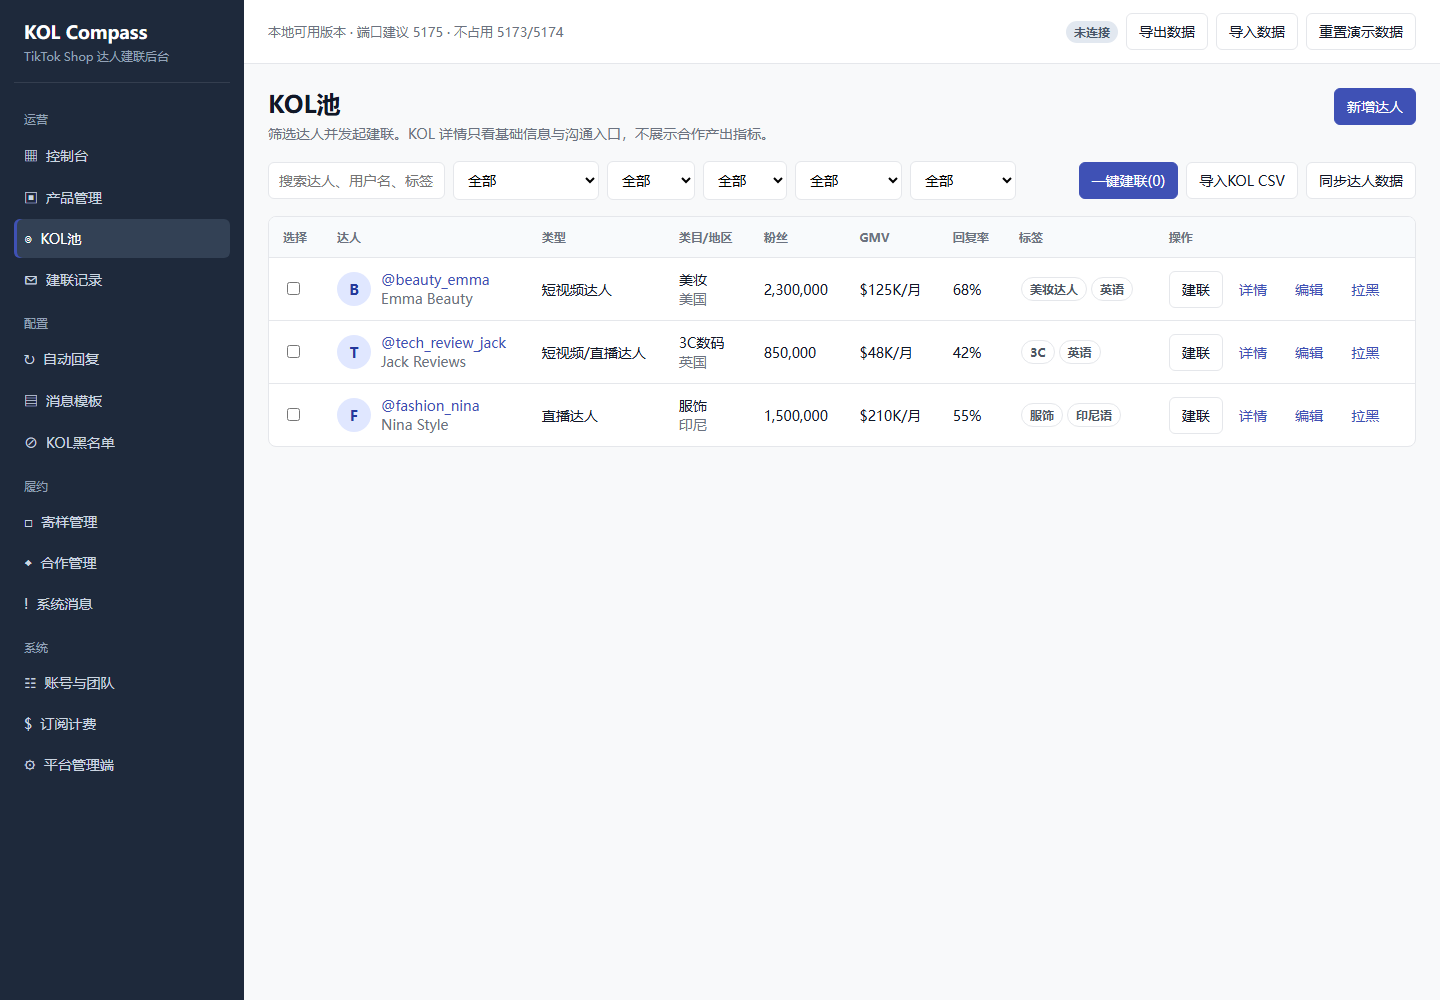
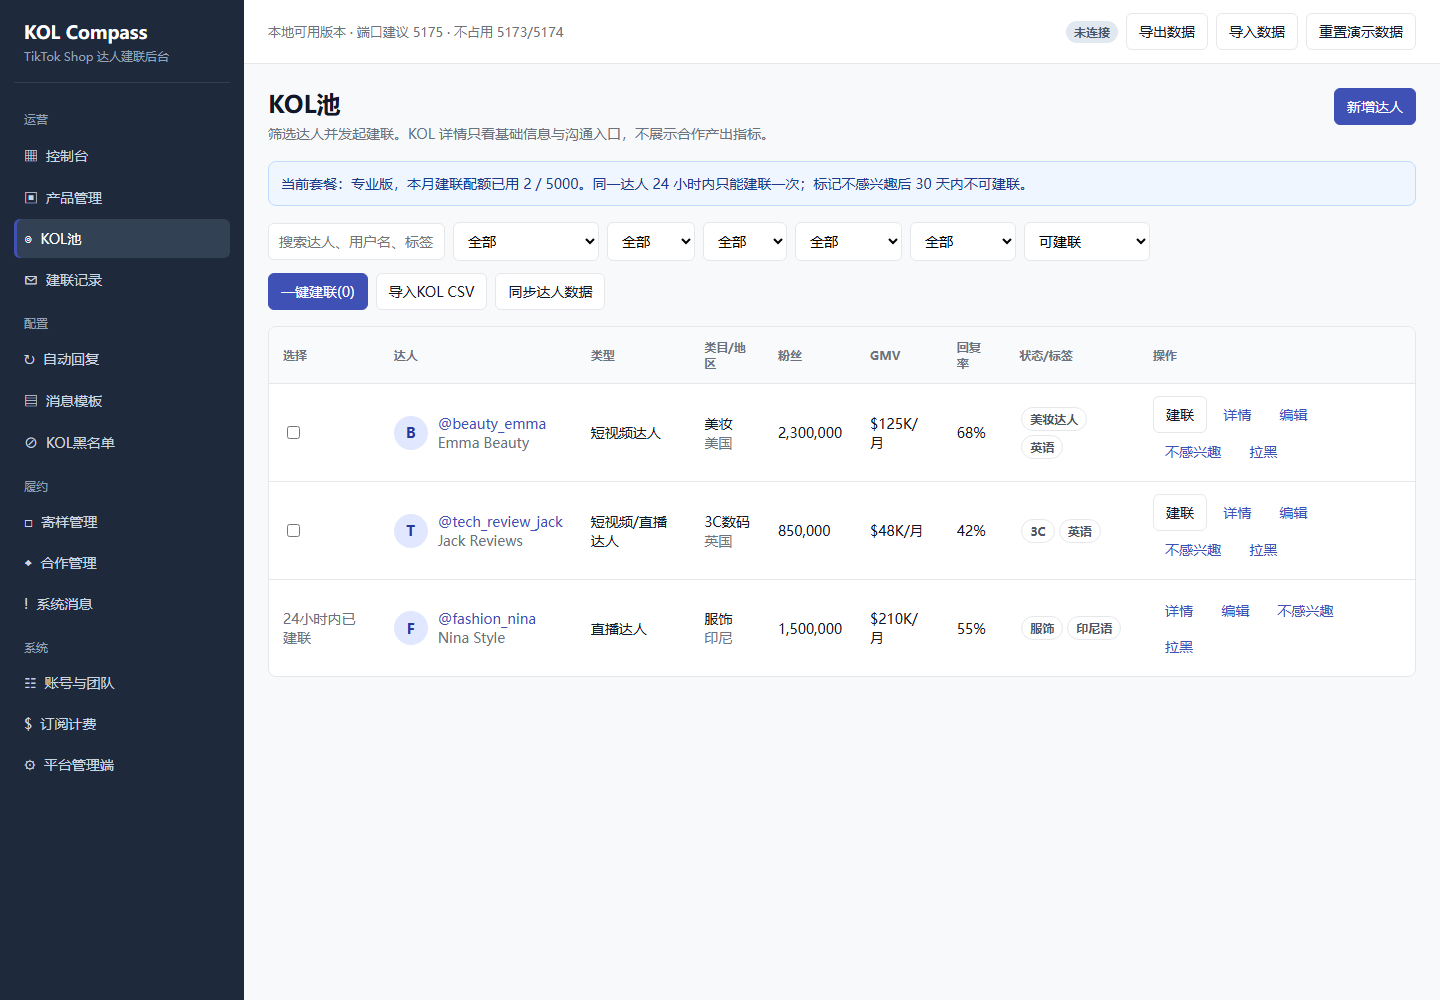
Enforce outreach safety rules

diff --git a/app.js b/app.js
@@ -27,6 +27,7 @@ const pages = [
 const pageKeys = new Set(pages.flatMap(([, items]) => items.map(([key]) => key)));
 const fixedTags = ["高ROI", "可复投", "需催发", "内容优质", "低效合作"];
 const outputStatuses = ["全部", "待产出", "已发视频", "已直播", "视频+直播", "逾期未产出", "有订单未匹配内容", "合作结束"];
+const planQuotas = { "免费版": 100, "基础版": 1000, "专业版": 5000, "企业版": Infinity };
 
 const seed = {
   page: "dashboard",
@@ -43,6 +44,7 @@ const seed = {
     kolRegion: "全部",
     kolFollowers: "全部",
     kolReplyRate: "全部",
+    kolInterest: "可建联",
     outreachSearch: "",
     outreachStatus: "全部",
     outreachChannel: "全部",
@@ -60,6 +62,7 @@ const seed = {
     tiktokRedirectUrl: "http://localhost:8015/api/tiktok/callback",
     tiktokScopes: "product,affiliate,messaging,order",
     tiktokLastAuthCheck: "尚未检查",
+    planName: "专业版",
     featureSwitches: {
       tiktokMessaging: true,
       emailMessaging: true,
@@ -244,6 +247,65 @@ function money(v) {
 
 function pct(v) {
   return Number.isFinite(v) ? `${v.toFixed(1)}%` : "-";
+}
+
+function todayString() {
+  return new Date().toISOString().slice(0, 10);
+}
+
+function monthKey(value = new Date()) {
+  const parsed = new Date(value);
+  if (Number.isNaN(parsed.getTime())) return new Date().toISOString().slice(0, 7);
+  return parsed.toISOString().slice(0, 7);
+}
+
+function outreachQuota() {
+  return planQuotas[state.settings.planName] ?? planQuotas["专业版"];
+}
+
+function monthlyOutreachUsed() {
+  const current = monthKey();
+  return state.outreach.filter((x) => monthKey(x.updatedAt || new Date()) === current && x.status !== "发送失败").length;
+}
+
+function quotaRemaining() {
+  const quota = outreachQuota();
+  if (!Number.isFinite(quota)) return Infinity;
+  return Math.max(0, quota - monthlyOutreachUsed());
+}
+
+function quotaLabel() {
+  const quota = outreachQuota();
+  return Number.isFinite(quota) ? `${monthlyOutreachUsed()} / ${quota}` : `${monthlyOutreachUsed()} / 不限`;
+}
+
+function lastOutreachForCreator(creatorId) {
+  return state.outreach
+    .filter((x) => x.creatorId === creatorId)
+    .sort((a, b) => new Date(b.updatedAt) - new Date(a.updatedAt))[0];
+}
+
+function hoursSince(value) {
+  const time = new Date(value).getTime();
+  if (!Number.isFinite(time)) return Infinity;
+  return (Date.now() - time) / 36e5;
+}
+
+function isNotInterestedBlocked(c) {
+  return c?.status === "不感兴趣" && (!c.notInterestedUntil || c.notInterestedUntil >= todayString());
+}
+
+function isOutreachCoolingDown(c) {
+  const last = lastOutreachForCreator(c?.id);
+  return last && hoursSince(last.updatedAt) < 24 && last.status !== "已关闭";
+}
+
+function creatorOutreachBlockReason(c) {
+  if (!c) return "达人不存在";
+  if (c.status === "黑名单") return "黑名单";
+  if (isNotInterestedBlocked(c)) return `不感兴趣至 ${c.notInterestedUntil}`;
+  if (isOutreachCoolingDown(c)) return "24小时内已建联";
+  return "";
 }
 
 function creatorFollowerTierOk(followers, tier) {
@@ -469,10 +531,12 @@ function renderKolPool() {
     const followersOk = creatorFollowerTierOk(c.followers, state.filters.kolFollowers);
     const replyRateOk = creatorReplyRateOk(c.replyRate, state.filters.kolReplyRate);
     const kwOk = !kw || [c.username, c.nickname, c.category, c.region, c.tags.join(",")].join(" ").toLowerCase().includes(kw);
-    return typeOk && categoryOk && regionOk && followersOk && replyRateOk && kwOk && c.status !== "黑名单";
+    const interestOk = state.filters.kolInterest === "显示不感兴趣" ? c.status !== "黑名单" : c.status !== "黑名单" && !isNotInterestedBlocked(c);
+    return typeOk && categoryOk && regionOk && followersOk && replyRateOk && kwOk && interestOk;
   });
   return `
     ${pageHead("KOL池", "筛选达人并发起建联。KOL 详情只看基础信息与沟通入口，不展示合作产出指标。", `<button class="btn primary" onclick="openCreatorModal()">新增达人</button>`)}
+    <div class="notice" style="margin-bottom:12px">当前套餐：${escapeHtml(state.settings.planName)}，本月建联配额已用 ${quotaLabel()}。同一达人 24 小时内只能建联一次；标记不感兴趣后 30 天内不可建联。</div>
     <div class="toolbar">
       <div class="filters">
         <input class="input" placeholder="搜索达人、用户名、标签..." value="${escapeHtml(state.filters.kolSearch)}" oninput="setFilter('kolSearch', this.value)" />
@@ -491,6 +555,9 @@ function renderKolPool() {
         <select class="select" onchange="setFilter('kolReplyRate', this.value)">
           ${["全部", ">=60%", "40%-60%", "<40%"].map((x) => `<option ${state.filters.kolReplyRate === x ? "selected" : ""}>${x}</option>`).join("")}
         </select>
+        <select class="select" onchange="setFilter('kolInterest', this.value)">
+          ${["可建联", "显示不感兴趣"].map((x) => `<option ${state.filters.kolInterest === x ? "selected" : ""}>${x}</option>`).join("")}
+        </select>
       </div>
       <div class="filters">
         <button class="btn primary" onclick="openOutreachModal()">一键建联(${state.bulkCreatorIds.length})</button>
@@ -498,17 +565,20 @@ function renderKolPool() {
         <button class="btn" onclick="syncCreators()">同步达人数据</button>
       </div>
     </div>
-    ${table(["选择", "达人", "类型", "类目/地区", "粉丝", "GMV", "回复率", "标签", "操作"], rows.map((c) => [
-      `<input type="checkbox" ${state.bulkCreatorIds.includes(c.id) ? "checked" : ""} onchange="toggleCreatorSelection(${c.id}, this.checked)" aria-label="选择 @${escapeHtml(c.username)}" />`,
+    ${table(["选择", "达人", "类型", "类目/地区", "粉丝", "GMV", "回复率", "状态/标签", "操作"], rows.map((c) => {
+      const blockReason = creatorOutreachBlockReason(c);
+      return [
+      blockReason ? `<span class="muted">${escapeHtml(blockReason)}</span>` : `<input type="checkbox" ${state.bulkCreatorIds.includes(c.id) ? "checked" : ""} onchange="toggleCreatorSelection(${c.id}, this.checked)" aria-label="选择 @${escapeHtml(c.username)}" />`,
       personCell(c),
       c.type,
       `${c.category}<br><span class="muted">${c.region}</span>`,
       c.followers.toLocaleString(),
       c.gmv,
       c.replyRate,
-      c.tags.map((t) => `<span class="tag">${escapeHtml(t)}</span>`).join(""),
-      `<button class="btn" onclick="openOutreachModal(${c.id})">建联</button> <button class="btn ghost" onclick="showCreator(${c.id})">详情</button> <button class="btn ghost" onclick="openCreatorModal(${c.id})">编辑</button> <button class="btn ghost" onclick="blacklistCreator(${c.id})">拉黑</button>`,
-    ]))}
+      `${c.status === "不感兴趣" ? badge("不感兴趣") : ""} ${c.tags.map((t) => `<span class="tag">${escapeHtml(t)}</span>`).join("")}`,
+      `${blockReason ? "" : `<button class="btn" onclick="openOutreachModal(${c.id})">建联</button>`} <button class="btn ghost" onclick="showCreator(${c.id})">详情</button> <button class="btn ghost" onclick="openCreatorModal(${c.id})">编辑</button> ${c.status === "不感兴趣" ? `<button class="btn ghost" onclick="clearNotInterested(${c.id})">恢复建联</button>` : `<button class="btn ghost" onclick="markNotInterested(${c.id})">不感兴趣</button>`} <button class="btn ghost" onclick="blacklistCreator(${c.id})">拉黑</button>`,
+    ];
+    }))}
   `;
 }
 
@@ -716,10 +786,16 @@ function renderBilling() {
   return `
     ${pageHead("订阅计费", "查看套餐、配额和账单。支付通道由平台管理端开关控制。")}
     <div class="notice" style="margin-bottom:16px">当前可用支付通道：支付宝、微信支付${stripeEnabled ? "、Stripe" : "。Stripe 支付已由平台管理端关闭"}。</div>
+    <div class="grid grid-3" style="margin-bottom:16px">
+      ${stat("当前套餐", state.settings.planName, "本地演示可切换")}
+      ${stat("本月建联配额", quotaLabel(), "按建联记录计算")}
+      ${stat("剩余额度", Number.isFinite(quotaRemaining()) ? quotaRemaining() : "不限", "额度不足会拦截建联")}
+    </div>
     <div class="grid grid-4">
       ${["免费版|$0|100 建联/月", "基础版|$29|1,000 建联/月", "专业版|$99|5,000 建联/月", "企业版|$299|不限量"].map((raw) => {
         const [name, price, quota] = raw.split("|");
-        return `<div class="card"><h3>${name}</h3><div class="stat-value">${price}</div><p>${quota}</p><button class="btn ${name === "专业版" ? "primary" : ""}">${name === "专业版" ? "当前推荐" : "选择套餐"}</button></div>`;
+        const active = state.settings.planName === name;
+        return `<div class="card"><h3>${name}</h3><div class="stat-value">${price}</div><p>${quota}</p><button class="btn ${active ? "primary" : ""}" onclick="selectPlan('${name}')">${active ? "当前套餐" : "选择套餐"}</button></div>`;
       }).join("")}
     </div>
   `;
@@ -1040,6 +1116,14 @@ function toggleFeatureSwitch(key) {
   render();
 }
 
+function selectPlan(name) {
+  if (!Object.prototype.hasOwnProperty.call(planQuotas, name)) return;
+  state.settings.planName = name;
+  pushMessage("订阅套餐", `当前套餐已切换为 ${name}，本月建联配额：${Number.isFinite(outreachQuota()) ? outreachQuota() : "不限"}。`);
+  saveState();
+  render();
+}
+
 function addProduct() {
   alert("产品数据应来自 TikTok Shop Partner API。本地版本不允许手动新增，避免和真实店铺商品冲突。");
 }
@@ -1071,6 +1155,7 @@ function outreachActions(o) {
   if (o.status !== "已关闭") {
     parts.push(`<button class="btn ghost" onclick="advanceOutreach(${o.id}, '已关闭')">关闭</button>`);
   }
+  parts.push(`<button class="btn ghost" onclick="markNotInterested(${o.creatorId})">不感兴趣</button>`);
   parts.push(`<button class="btn ghost" onclick="deleteOutreach(${o.id})">删除</button>`);
   return parts.join(" ");
 }
@@ -1306,11 +1391,51 @@ function blacklistCreator(id) {
   if (reason == null) return;
   c.status = "黑名单";
   c.notes = reason;
+  state.bulkCreatorIds = (state.bulkCreatorIds || []).filter((x) => x !== id);
+  saveState();
+  render();
+}
+
+function markNotInterested(id) {
+  const c = creator(id);
+  if (!c) return;
+  const reason = prompt("不感兴趣原因", c.notInterestedReason || "达人已拒绝");
+  if (reason == null) return;
+  c.status = "不感兴趣";
+  c.notInterestedReason = reason;
+  c.notInterestedUntil = dateAfter(30);
+  state.bulkCreatorIds = (state.bulkCreatorIds || []).filter((x) => x !== id);
+  state.outreach.forEach((row) => {
+    if (row.creatorId === id && row.status !== "已转合作") {
+      row.status = "已关闭";
+      row.updatedAt = nowText();
+      row.lastMessage = `[${row.updatedAt}] 已标记不感兴趣，30 天内不可再次建联。原因：${reason}`;
+    }
+  });
+  pushMessage("不感兴趣", `@${c.username} 已标记不感兴趣，${c.notInterestedUntil} 前不可再次建联。`);
+  saveState();
+  render();
+}
+
+function clearNotInterested(id) {
+  const c = creator(id);
+  if (!c) return;
+  c.status = "待联系";
+  c.notInterestedReason = "";
+  c.notInterestedUntil = "";
+  pushMessage("不感兴趣解除", `@${c.username} 已恢复为可建联。`);
   saveState();
   render();
 }
 
 function toggleCreatorSelection(id, checked) {
+  const c = creator(id);
+  const reason = creatorOutreachBlockReason(c);
+  if (checked && reason) {
+    alert(`该达人暂不可建联：${reason}`);
+    render();
+    return;
+  }
   const next = new Set(state.bulkCreatorIds || []);
   if (checked) next.add(id);
   else next.delete(id);
@@ -1321,9 +1446,13 @@ function toggleCreatorSelection(id, checked) {
 
 function openOutreachModal(creatorId = 0) {
   const selectedIds = creatorId ? [creatorId] : (state.bulkCreatorIds || []);
-  const targets = selectedIds.map((id) => creator(id)).filter(Boolean).filter((c) => c.status !== "黑名单");
+  const targets = selectedIds.map((id) => creator(id)).filter(Boolean).filter((c) => !creatorOutreachBlockReason(c));
   if (!targets.length) {
-    alert("请先选择至少一位可建联达人");
+    alert("请先选择至少一位可建联达人。黑名单、不感兴趣和 24 小时内已建联达人会被拦截。");
+    return;
+  }
+  if (Number.isFinite(quotaRemaining()) && quotaRemaining() < targets.length) {
+    alert(`本月建联配额不足：剩余 ${quotaRemaining()}，本次选择 ${targets.length}。请升级套餐或减少选择数量。`);
     return;
   }
   const channelOptions = channelOptionsForCreators(targets);
@@ -1361,7 +1490,19 @@ function saveOutreach(idList) {
   const scheduleAt = document.getElementById("outreachScheduleAt").value.trim();
   const invite = document.getElementById("outreachInvite").value === "是";
   const message = document.getElementById("outreachMessage").value.trim() || template?.content || "";
-  const targets = ids.map((id) => creator(id)).filter(Boolean).filter((c) => c.status !== "黑名单");
+  const blocked = ids.map((id) => creator(id)).filter(Boolean).map((c) => [c, creatorOutreachBlockReason(c)]).filter(([, reason]) => reason);
+  if (blocked.length) {
+    alert(`以下达人暂不可建联：${blocked.map(([c, reason]) => `@${c.username}（${reason}）`).join("、")}`);
+    return;
+  }
+  const targets = ids.map((id) => creator(id)).filter(Boolean);
+  if (Number.isFinite(quotaRemaining()) && quotaRemaining() < targets.length) {
+    alert(`本月建联配额不足：剩余 ${quotaRemaining()}，本次需要 ${targets.length}。请升级套餐或减少选择数量。`);
+    state.page = "billing";
+    location.hash = "#billing";
+    render();
+    return;
+  }
   if (!validateChannelForCreators(channel, targets)) return;
   let created = 0;
   ids.forEach((id, index) => {
@@ -1956,9 +2097,12 @@ window.simulateConnect = simulateConnect;
 window.saveApiSettings = saveApiSettings;
 window.markApiAuthBlocked = markApiAuthBlocked;
 window.toggleFeatureSwitch = toggleFeatureSwitch;
+window.selectPlan = selectPlan;
 window.addProduct = addProduct;
 window.openCreatorModal = openCreatorModal;
 window.saveCreator = saveCreator;
+window.markNotInterested = markNotInterested;
+window.clearNotInterested = clearNotInterested;
 window.toggleCreatorSelection = toggleCreatorSelection;
 window.openOutreachModal = openOutreachModal;
 window.saveOutreach = saveOutreach;

diff --git a/smoke-test.js b/smoke-test.js
@@ -68,6 +68,7 @@ async function main() {
   assert("creator contact fields editable", app.includes('field("email", "Email"') && app.includes('field("whatsapp", "WhatsApp"') && app.includes('email: get("email")'));
   assert("KOL pool multi-dimensional filters supported", ["kolCategory", "kolRegion", "kolFollowers", "kolReplyRate", "creatorFollowerTierOk", "creatorReplyRateOk"].every((name) => app.includes(name)));
   assert("KOL pool batch outreach supported", ["toggleCreatorSelection", "openOutreachModal", "saveOutreach", "renderTemplate"].every((name) => app.includes(`function ${name}`)) && app.includes("一键建联"));
+  assert("outreach quota and safety rules enforced", ["planQuotas", "quotaRemaining", "creatorOutreachBlockReason", "markNotInterested", "clearNotInterested", "selectPlan"].every((name) => app.includes(name)) && app.includes("24小时内已建联") && app.includes("不感兴趣至"));
   assert("outreach replies supported", ["openReplyModal", "saveReply", "replyChannelOptions"].every((name) => app.includes(`function ${name}`)) && app.includes("回复达人"));
   assert("outreach filters supported", ["outreachSearch", "outreachStatus", "outreachChannel"].every((name) => app.includes(name)) && app.includes("搜索达人、产品、消息"));
   assert("auto reply CRUD and local trigger test supported", ["openAutoReplyModal", "saveAutoReply", "deleteAutoReply", "openAutoReplyTest", "runAutoReplyTest", "autoReplyMatches"].every((name) => app.includes(`function ${name}`)) && app.includes("自动回复规则最多 50 条"));

diff --git a/README.md b/README.md
@@ -68,6 +68,7 @@ KOL CSV 支持表头：
 - 顶部工具栏支持导出/导入 JSON，便于本地备份、迁移和恢复。
 - 产品管理支持搜索、类目筛选、状态筛选和合作模式筛选；未授权时仅使用本地数据，不伪造 TikTok API 同步成功。
 - KOL池支持导入 KOL CSV、关键词/达人类型/类目/地区/粉丝量级/回复率筛选、勾选达人、一键建联、选择产品/模板/渠道、定时发送记录和附加邀请链接；合作管理支持导入合作 CSV。
+- KOL池和建联保存会执行建联安全规则：月配额、同一达人 24 小时限发、不感兴趣 30 天屏蔽。
 - 达人编辑弹窗支持录入 Email / WhatsApp；建联记录和 KOL 详情沟通记录支持直接回复。
 - 平台管理端功能开关会约束建联和回复渠道；关闭 Email/WhatsApp 后，新建联和回复不会再显示对应渠道。
 - 建联记录支持按达人/产品/消息关键词、沟通状态和渠道筛选。
@@ -76,6 +77,7 @@ KOL CSV 支持表头：
 - 系统消息包含同步日志，记录 API/商品/达人/内容订单同步的模块、状态、失败原因和时间。
 - 消息模板支持新增、编辑、删除，并提示可用变量。
 - 建联记录支持从沟通状态推进到寄样或合作；寄样管理支持从已签收样品进入合作管理。
+- 订阅计费支持本地切换套餐，并即时影响建联配额提示和建联拦截。
 - 已覆盖控制台、产品管理、KOL池、建联记录、自动回复、消息模板、黑名单、寄样管理、合作管理、系统消息、账号团队、订阅计费、平台管理端。
 - 合作管理是内容追踪唯一主入口，包含已产出/未产出、视频、直播、GMV、订单、佣金、ROI 和自定义标签筛选。
 - KOL详情只展示基础资料、联系方式、标签备注、沟通记录和合作入口，不展示视频/直播/GMV/ROI。

diff --git a/docs/PROJECT_MEMORY.md b/docs/PROJECT_MEMORY.md
@@ -1,6 +1,6 @@
 # KOL Compass 项目记忆
 
-更新时间：2026-06-21 23:23 CST
+更新时间：2026-06-21 23:31 CST
 
 ## 当前工作目录
 
@@ -40,6 +40,8 @@ node smoke-test.js
 
 - `node --check app.js` 通过。
 - `node smoke-test.js` 全部通过。
+- KOL 池截图 `smoke-kol-pool.png` 已重新生成并目视检查通过，建联配额、24 小时限发和不感兴趣入口可见。
+- 订阅计费截图 `smoke-billing.png` 已重新生成并目视检查通过，套餐切换和配额剩余额度可见。
 - 自动回复截图 `smoke-auto-reply.png` 已生成并目视检查通过，规则配置和本地测试入口可见。
 - 平台管理端截图 `smoke-admin.png` 已重新生成并目视检查通过，功能开关可见且可切换。
 - 订阅计费截图 `smoke-billing.png` 已生成并目视检查通过，Stripe 关闭状态可见。
@@ -58,6 +60,8 @@ node smoke-test.js
 - 内容追踪只放在合作管理。
 - 产品管理已支持按产品关键词、类目、状态、合作模式筛选，并明确提示真实数据来自 TikTok Shop Partner API。
 - KOL 池已支持按关键词、达人类型、类目、地区、粉丝量级、回复率区间筛选。
+- KOL 池和建联保存已执行建联安全规则：月配额、同一达人 24 小时限发、不感兴趣 30 天屏蔽；建联记录和 KOL 池均可标记不感兴趣。
+- 订阅计费页已支持本地切换套餐，并即时影响建联配额显示和建联拦截。
 - 建联记录已支持按达人/产品/消息关键词、沟通状态、渠道筛选。
 - 合作管理已支持按达人/产品/负责人/备注搜索，并支持全部/已产出/未产出筛选。
 - 平台管理端已支持保存 TikTok API 本地配置：client_key、OAuth Redirect URL、scope、最近检查时间；client_secret 明确不保存到前端。

diff --git a/docs/CLAUDE_CONTINUE.md b/docs/CLAUDE_CONTINUE.md
@@ -31,7 +31,7 @@
 - `stop-5175.bat`
 - `smoke-test.js`
 
-最近一次心跳检查：2026-06-21 23:23 CST，当前分支已连接 GitHub 远端，`node --check app.js` 与 `node smoke-test.js` 通过。本轮补齐自动回复配置闭环：新增/编辑/删除/启停、关键词/完全匹配/条件组合、本地触发测试；测试只写系统消息，不发送真实外部消息。
+最近一次心跳检查：2026-06-21 23:31 CST，当前分支已连接 GitHub 远端，`node --check app.js` 与 `node smoke-test.js` 通过。本轮补齐建联安全规则：月配额、同一达人 24 小时限发、不感兴趣 30 天屏蔽；订阅页本地切换套餐会影响配额显示和建联拦截。
 
 启动：
 
@@ -103,6 +103,8 @@ P0：
    - 选择产品/模板/渠道
    - 定时发送记录
    - 附加邀请链接时自动进入合作管理
+   - 保存建联时必须校验月配额、同一达人 24 小时限发、不感兴趣 30 天屏蔽
+   - 建联记录和 KOL 池均可标记不感兴趣，手动恢复后才可再次建联
 6. 保持沟通闭环：
    - 达人编辑弹窗可录入 Email / WhatsApp
    - 建联记录可按达人/产品/消息关键词、沟通状态、渠道筛选

diff --git a/docs/ACCEPTANCE_REPORT.md b/docs/ACCEPTANCE_REPORT.md
@@ -124,10 +124,13 @@ node smoke-test.js
 - KOL池包含编辑和拉黑操作
 - KOL池支持勾选达人、一键建联、选择产品/模板/渠道、定时发送记录和附加邀请链接
 - KOL池支持关键词、达人类型、类目、地区、粉丝量级、回复率区间筛选
+- 建联保存会校验月配额、同一达人 24 小时限发、不感兴趣 30 天屏蔽
+- 建联记录和 KOL 池支持标记不感兴趣，并可手动恢复建联
 - 产品管理支持产品搜索、类目筛选、状态筛选和合作模式筛选
 - 产品管理不允许手动新增商品，避免伪造 TikTok Shop 商品源
 - 平台管理端功能开关会约束建联和回复渠道，关闭 Email/WhatsApp 后不再作为新操作渠道
 - 订阅页读取 Stripe 支付开关，关闭时明确展示不可用状态
+- 订阅页支持本地切换套餐，切换后即时影响建联配额
 - 系统消息包含同步日志，展示 API/同步状态、原因和时间
 - KOL详情和达人编辑弹窗支持录入 Email / WhatsApp
 - 建联记录和KOL详情沟通记录支持直接回复
